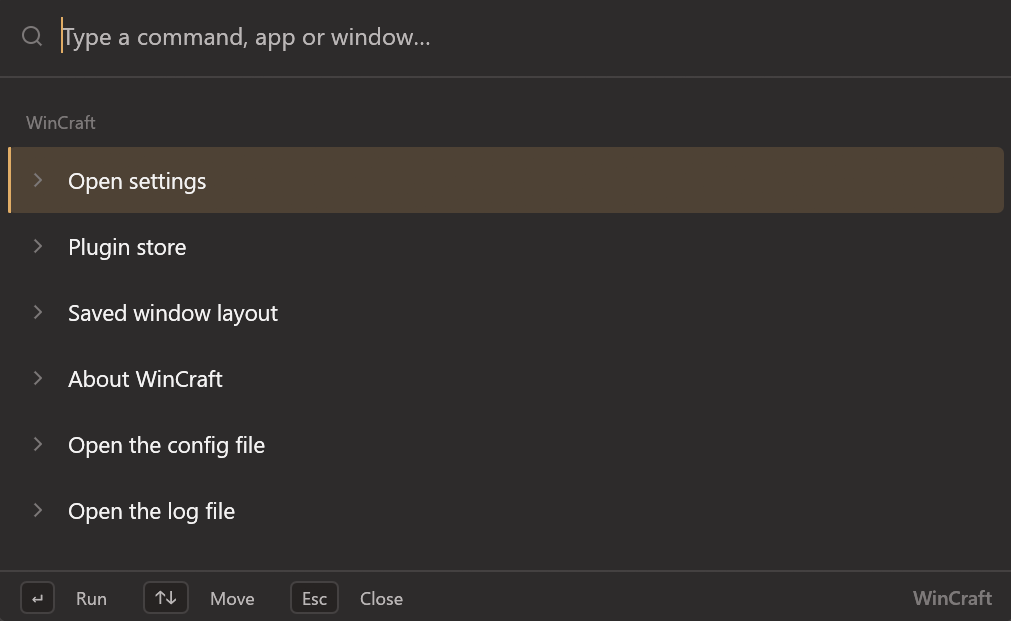
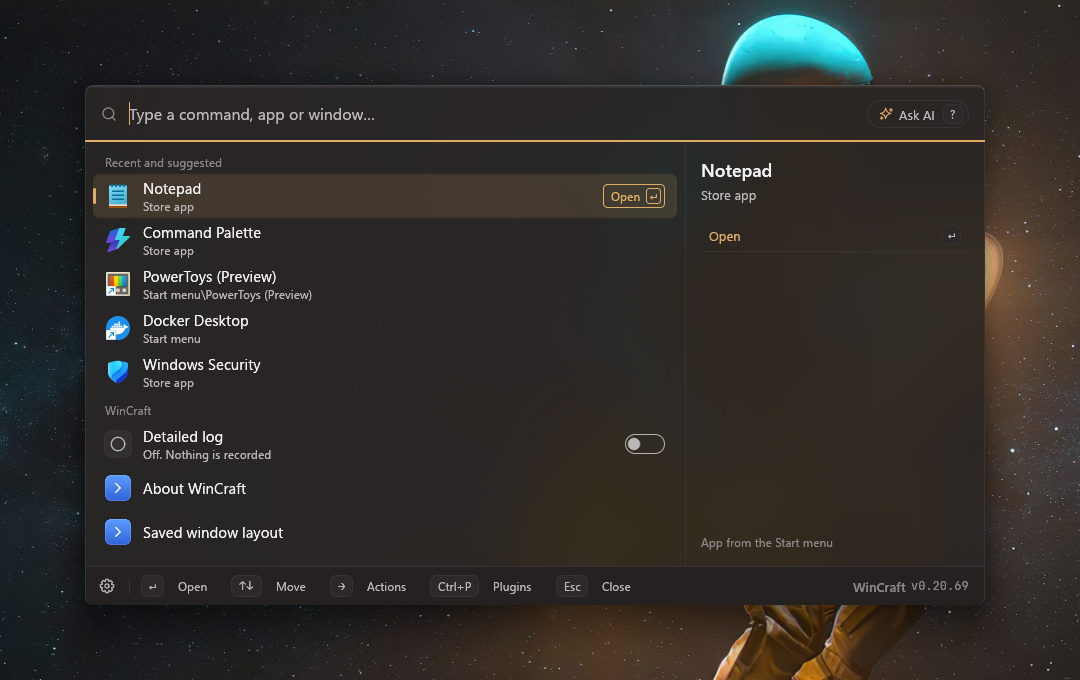
README: new QuickActions section and a current palette picture (#4)
* README: the new QuickActions section and a What You Get line

The creator rewrote the QuickActions section to sell the plugin: settings
switches and system fixes one search away, with their live state shown.
The long action table moves out to the plugin's own README, which the
section now links. "Paste as plain text" became "Convert the clipboard to
plain text", because the action cleans the clipboard and does not paste.

* README: a current picture of the palette

The top picture showed the plain palette of an early version, without
glass, the details panel or the footer keys. It is now WinCraft 0.20.69 in
the Fluent theme over a wallpaper, the same view as the website's hero.

---------

diff --git a/README.md b/README.md
@@ -7,7 +7,7 @@ Stop running half a dozen background utilities that fight over keyboard hooks, e
 
 [**Download Latest `wincraft.exe`**](https://github.com/OliverD25/wincraft/releases/latest) · [**Live Preview & Screenshots (wincraft.luminart.app)**](https://wincraft.luminart.app)
 
-![The WinCraft command palette: a search box over WinCraft's own commands](docs/palette.png)
+![The WinCraft command palette in the Fluent glass theme: recent apps and WinCraft commands, with the selected result's details beside the list](docs/palette.png)
 
 ---
 
@@ -54,6 +54,7 @@ The result is `target\release\wincraft.exe`.
 ## What You Get at a Glance
 
 * **Command Palette (`Win+Alt+P`)** — Opens a search box on the monitor your pointer is on. Type a few letters and press `Enter`. It finds WinCraft's commands, apps (Start menu, Store, and installed), open windows, files and folders across every disk (via *Everything*), and your bookmarks. It calculates sums as you type, and with a quick prefix it browses folders, runs terminal commands, asks an AI website, or searches the web. Beside the list, a live **inspector** shows what the selected row is and every action it can take. See [Command palette](#command-palette-winaltp).
+* **QuickActions** — Windows 11 settings switches and everyday system fixes in the palette: type `dark`, `mic` or `caffeine` and press `Enter`, with a live on/off state and **Undo**. See [QuickActions](#8-quickactions).
 * **Settings Window** — Clean navigation across *General*, *Themes*, *Plugins*, *Hotkeys*, *Layout*, *Bookmarks*, *Plugin Store*, and *About*, plus a dedicated page per plugin with its options, hotkeys, config file, and README.
 * **Single & Chord Hotkeys** — Every command the palette lists can be bound to a single key press or two presses in a row (a chord, such as `Win+Alt+K`, then `S`). See [Hotkeys](#global-hotkeys--chords).
 * **5 Native Themes with Live Hover Preview** — *Classic* (default), *Fluent*, *Terminal*, *Paper*, and *High contrast*, each in Dark, Light, or System mode. In *Fluent*, the palette uses Windows 11 glass (automatically turning solid on battery saver or when transparency effects are off). Point at any tile in **Settings → Themes** and every open WinCraft window previews that theme live; click to keep it. Automatically switches to *High contrast* when Windows high contrast is enabled.
@@ -146,29 +147,14 @@ Shows which input language you switched to right in the center of the screen, ma
 
 ### 8. QuickActions
 
-The Windows 11 switches that Settings hides several clicks deep, one search away in the palette, VS Code style. Type `dark`, `center` or `awake` and press `Enter`. Every action is named *Area: Verb* and is also found by everyday words: `night` finds dark mode, `caffeine` finds keep awake, `pin` finds always on top. Window actions change the window you were in before the palette opened (never WinCraft's own), restore a maximized window first, and use real screen pixels of the visible window, so `1280 × 720` records as `1280 × 720` at any scale. Every change shows a notice from WinCraft with **Undo**, which puts back exactly what was there before; running a switch again also switches it back. The eight switches show their state in the palette, read from Windows each time it opens, and `Enter` flips one with the palette left open. No default hotkeys: select an action in the palette and press `Ctrl+K` to give it one. [Full README](src/plugins/quick_actions/README.md)
+Puts Windows 11 settings switches and everyday system fixes straight into the command palette, so you never have to dig three menus deep into Settings. Open the palette, type a few letters (such as `dark`, `mic` or `caffeine`), and press `Enter`. For switches, the palette stays open so you can flip the next one right away, and every change shows a short notice with **Undo**. [Full README](src/plugins/quick_actions/README.md)
 
-| Palette command | What it does |
-| --- | --- |
-| `Window: Toggle Always on Top` | Keeps the window above all others, or stops it |
-| `Window: Center` | Moves the window to the middle of its screen |
-| `Window: Resize to 1280 × 720` / `1920 × 1080` / `80 % of the Monitor` | Resizes the window and centers it, shrinking to fit the screen if needed |
-| `Display: Toggle Keep Awake` | Keeps the PC and the screen awake until run again (also a tick in the tray menu) |
-| `Theme: Toggle Dark Mode` | Switches apps and Windows between dark and light together |
-| `Desktop: Show Desktop Icons` | Hides or shows the desktop icons, for a clean screen share |
-| `Taskbar: Toggle Auto-Hide` | Hides the taskbar until the mouse reaches it |
-| `File Explorer: Toggle Hidden Files` / `Toggle File Extensions` | Shows or hides hidden files, or the `.txt` end of file names |
-| `Network: Copy Local IP` | Copies the PC's own address (Wi-Fi first, then Ethernet and WSL); no outside service is asked |
-| `Network: Flush DNS Cache` | Clears the web addresses Windows remembers, like `ipconfig /flushdns` |
-| `Clipboard: Convert to Plain Text` / `Copy New UUID` | Strips the formatting from the clipboard, or copies a new random UUID |
-| `Audio: Toggle Microphone Mute` | Mutes or unmutes the default microphone |
-| `System: Empty Recycle Bin` | Empties the Recycle Bin after a second `Enter` within 5 s |
-| `Settings: Open Environment Variables` | Opens the window for editing `PATH` and other variables |
-| `Developer: Kill Process on Port` | Lists the programs listening on TCP ports (type a port number to filter); ends the one you pick after a second `Enter` |
-| `Audio: Switch Output Device` | Lists the sound devices with the current one marked; switches to the one you pick, with **Undo** |
-| `Window: Resize…` | The built-in sizes plus your own from the plugin's page, such as `1600x900, 1366x768` |
-| `System: Eject USB Drive` | Ejects a USB drive or memory card safely, or says it is still in use |
-| `Display: Keep Awake for…` | 30 min, 1 h, 2 h or until off; the tray shows the end time |
+Each switch reads the real state from Windows every time the palette opens and shows it with a coloured tile and a toggle (`"Microphone is muted"`, `"Hidden files are shown"`, `"PC stays awake"`). Actions are named `Area: Verb` (so `window` lists every window action and `explorer` lists File Explorer switches), and everyday words work too (`night` finds dark mode, `caffeine` finds keep awake, `pin` finds always on top). Nothing runs in the background; press `Ctrl+K` on any action in the palette to give it a hotkey or a chord of its own.
+
+| What is inside | Actions |
+| :--- | :--- |
+| **Switches** | Dark Mode · File Extensions · Hidden Files · Desktop Icons · Taskbar Auto-Hide · Microphone Mute · Keep Awake · Always on Top |
+| **One-step commands** | Switch audio output · Free a busy port · Convert the clipboard to plain text · Safely remove a USB drive · Center a window · Flush DNS · Empty the Recycle Bin |
 
 Actions that end in `…`, and Kill Process on Port, Switch Output Device and Eject USB Drive, show a list in the palette: type to filter, `Enter` picks, `Esc` goes back.
 
